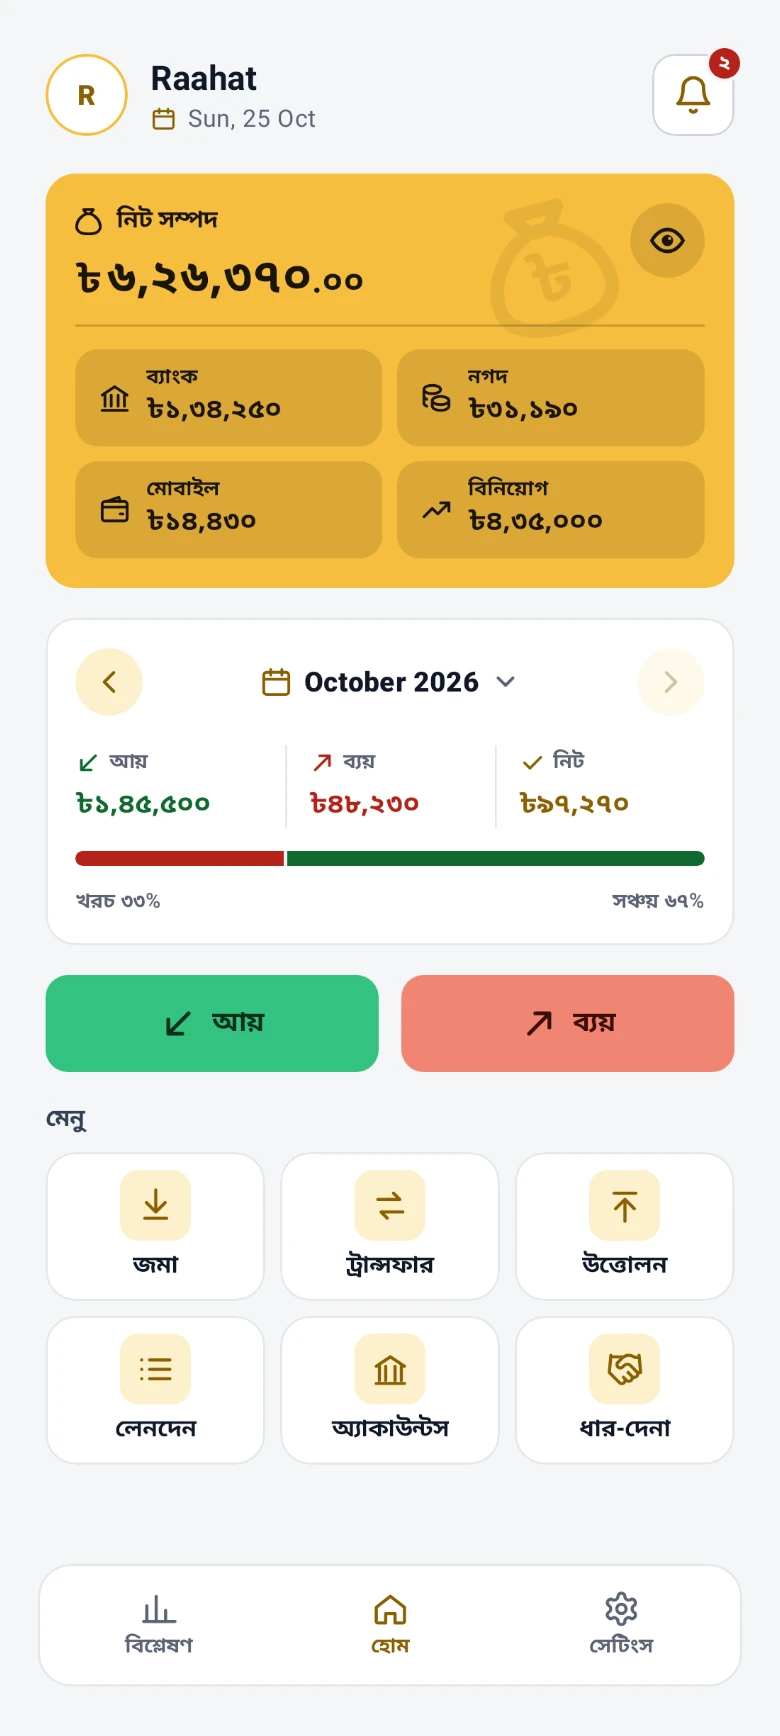
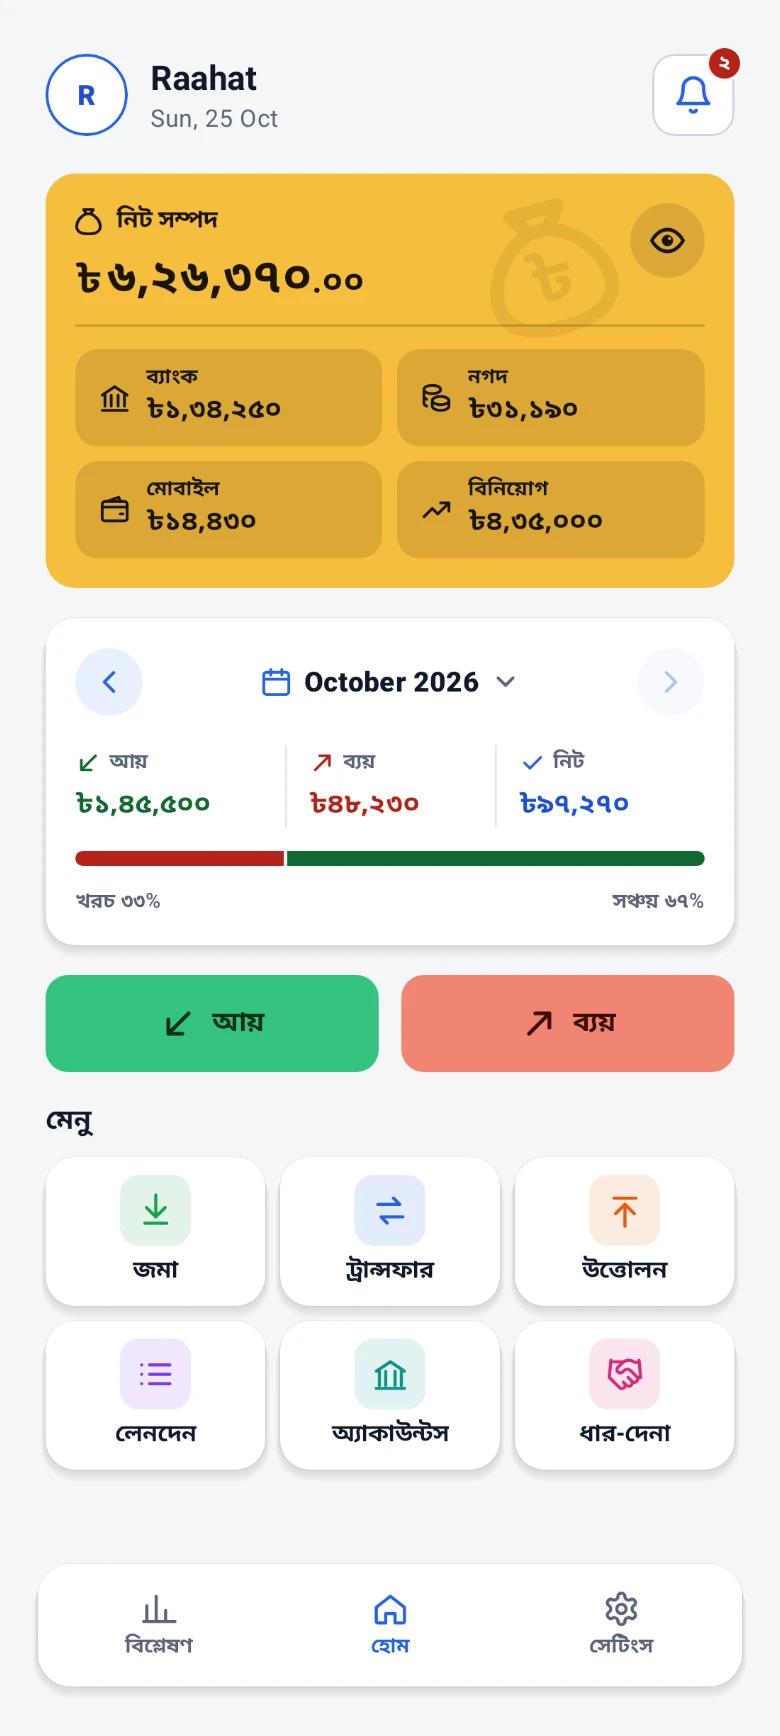
Website 2.25.29: the light pictures in Rainbow
The app's pictures retaken from app 2.2.9: the light ones in its new Rainbow accent, the dark
ones in Yellow, which Rainbow is after dark. The first-launch steps stay Yellow, the accent a
new install starts in. gallery-changes.js adds the LightRainbow look the gallery lacks and
drops its Money Flow 12dp change, which app 2.2.7 released. Features names the third accent:
"gold, sky blue or rainbow" / "সোনালি, আকাশি বা রংধনু".

diff --git a/assets/strings.js b/assets/strings.js
@@ -480,8 +480,8 @@ const S = {
                  'খাতাটি ফোনেই এনক্রিপ্ট করা। ঢুকতে লাগে পিন বা আঙুলের ছাপ, আর বেরোনোর এক মিনিট পর আবার তালা লাগে; এক্সপোর্ট, ব্যাকআপ, এন্ট্রি প্রত্যাহার আর ফাইল থেকে রিস্টোরের আগে আবার পিন বা আঙুলের ছাপ চায়; "সর্বশেষ কপি রিস্টোর" আর "শেষ রিস্টোর ফিরিয়ে নিন"-এ লাগে শুধু পিন।'],
   fLookHead:    ['Set it up your way',
                  'আপনার পছন্দমতো সাজিয়ে নিন'],
-  fLookBody:    ['Bangla or English, light or dark mode, gold or sky blue, and the text size you like — change any of them whenever you want. Set to System, the text follows your phone’s settings, up to the app’s Large size; you can also pick Compact, Standard or Large yourself. Buttons are made easy to tap.',
-                 'বাংলা বা ইংরেজি, লাইট বা ডার্ক মোড, সোনালি বা আকাশি থিম এবং পছন্দমতো ফন্ট সাইজ — সবকিছুই পরিবর্তন করতে পারবেন যখন খুশি। ফন্ট সাইজ System-এ রাখলে লেখা ফোনের সেটিংস অনুযায়ী দেখাবে, তবে অ্যাপের "বড়" সাইজের চেয়ে বড় হবে না। চাইলে কমপ্যাক্ট, স্ট্যান্ডার্ড বা বড় সাইজও বেছে নিতে পারবেন। বোতামগুলোও সহজে ট্যাপ করার মতো করে তৈরি।'],
+  fLookBody:    ['Bangla or English, light or dark mode, gold, sky blue or rainbow, and the text size you like — change any of them whenever you want. Set to System, the text follows your phone’s settings, up to the app’s Large size; you can also pick Compact, Standard or Large yourself. Buttons are made easy to tap.',
+                 'বাংলা বা ইংরেজি, লাইট বা ডার্ক মোড, সোনালি, আকাশি বা রংধনু থিম এবং পছন্দমতো ফন্ট সাইজ — সবকিছুই পরিবর্তন করতে পারবেন যখন খুশি। ফন্ট সাইজ System-এ রাখলে লেখা ফোনের সেটিংস অনুযায়ী দেখাবে, তবে অ্যাপের "বড়" সাইজের চেয়ে বড় হবে না। চাইলে কমপ্যাক্ট, স্ট্যান্ডার্ড বা বড় সাইজও বেছে নিতে পারবেন। বোতামগুলোও সহজে ট্যাপ করার মতো করে তৈরি।'],
   // 1.1.69. Said as the release notes say it: what goes in the list, and that the list
   // is the phone's alone -- the privacy page's promise has to hold for it too.
   f9Head:       ['A list behind the bell', 'বেল আইকনে একটি তালিকা'],

diff --git a/_tools/gallery-changes.js b/_tools/gallery-changes.js
@@ -1,5 +1,5 @@
 // Website render only, never committed to the app: the site's changes to the gallery, applied
-// to a worktree of the release tag (v2.2.6 since site 2.25.21). Usage: node gallery-changes.js <worktree>. Built for site
+// to a worktree of the release tag (v2.2.9 since site 2.25.29). Usage: node gallery-changes.js <worktree>. Built for site
 // 2.21.0-2.23.2; the month counted from the gallery's held clock (25 Oct 2026) since 2.25.1.
 const fs = require('fs');
 const root = process.argv[2] + '/app/src/test/java/com/ledgerbook/app/gallery/';
@@ -29,6 +29,10 @@ edit('GalleryTest.kt', [
   private val bnNotes: Boolean get() = webScene && sceneName.methodName.let { it.contains("Bangla") || it == "bangla" }
   private fun w(en: String, bn: String) = if (bnNotes) bn else en
 `],
+  // Website render only (site 2.25.29): a fifth look, Rainbow on the light theme, which the light
+  // pictures show -- the gallery draws only Yellow and Sky.
+  ['    LightSky(false, ThemeColorMode.SKY, "light-sky")\n',
+   '    LightSky(false, ThemeColorMode.SKY, "light-sky"),\n    LightRainbow(false, ThemeColorMode.RAINBOW, "light-rainbow")\n'],
   ['repository.insertAccount(BankAccount(accountName = "CITY BANK A/C", accountType = "Savings", accountNumberSuffix = "9032", balance = 68250.0,',
    'val city = repository.insertAccountReturningId(BankAccount(accountName = "CITY BANK A/C", accountType = "Savings", accountNumberSuffix = "9032", balance = 0.0,'],
   ['val cash = repository.insertAccountReturningId(BankAccount(accountName = "Cash in Hand",',
@@ -136,16 +140,4 @@ edit('Gallery03HomeTest.kt', [
   @Test fun webFlowBangla() = scene("06-Money-Flow", english = false) { Main(AppPage.MONEY_FLOW) }
 `],
 ]);
-// Website render only (site 2.25.21): Money Flow's filter bar 12 under its note, the owner's ask of
-// 2026-11-19, made in the app's working tree but not yet committed or released -- the 2.2.6 tag
-// draws it at 10. Drop this block once a release carries the 12.
-{
-  const p = process.argv[2] + '/app/src/main/java/com/ledgerbook/app/ui/MoneyFlowScreen.kt';
-  let s = fs.readFileSync(p, 'utf8');
-  const a = 'modifier = Modifier.padding(top = 10.dp)\n                )\n            }\n        }';
-  const crlf = s.includes('\r\n'); s = s.replace(/\r\n/g, '\n');
-  if (s.split(a).length !== 2) throw new Error('MoneyFlowScreen.kt: the filter bar\'s 10.dp');
-  s = s.replace(a, () => a.replace('10.dp', '12.dp'));
-  fs.writeFileSync(p, crlf ? s.replace(/\n/g, '\r\n') : s);
-}
 console.log('ok');

diff --git a/features.html b/features.html
@@ -290,7 +290,7 @@
       <article class="card fcard">
         <span class="tile"><svg class="ico" viewBox="0 0 24 24" aria-hidden="true"><circle cx="12" cy="12" r="9"/><path d="M3 12h18M12 3c2.5 2.5 3.8 5.5 3.8 9s-1.3 6.5-3.8 9c-2.5-2.5-3.8-5.5-3.8-9S9.5 5.5 12 3z"/></svg></span>
         <h3 data-s="fLookHead">Set it up your way</h3>
-        <p data-s="fLookBody">Bangla or English, light or dark mode, gold or sky blue, and the text size you like — change any of them whenever you want. Set to System, the text follows your phone’s settings, up to the app’s Large size; you can also pick Compact, Standard or Large yourself. Buttons are made easy to tap.</p>
+        <p data-s="fLookBody">Bangla or English, light or dark mode, gold, sky blue or rainbow, and the text size you like — change any of them whenever you want. Set to System, the text follows your phone’s settings, up to the app’s Large size; you can also pick Compact, Standard or Large yourself. Buttons are made easy to tap.</p>
       </article>
     </div>
   </section>
@@ -324,7 +324,7 @@
       <p data-s="footerNote">Built for keeping one household’s books. No trackers on this page.</p>
     </div>
     <p class="foot-links">
-      <span class="foot-ver" data-site-version>Website v2.25.28</span>
+      <span class="foot-ver" data-site-version>Website v2.25.29</span>
       <a href="privacy.html" data-s="navPrivacy">Privacy</a>
       <a href="install.html" data-s="navInstall">How to install</a>
     </p>

diff --git a/_tools/towebp.js b/_tools/towebp.js
@@ -16,9 +16,12 @@ const scenes = { home: '03-01-Home', txn: '05-Transactions', accounts: '07-Accou
   analytics: '06-Analytics', backup: '11-Backups-On', invest: '07-Accounts-Tab-Invest', flow: '06-Money-Flow' };
 const steps = { name: '01-02-Welcome-Name-Typed', create: '01-04-Create-PIN', confirm: '01-05-Confirm-PIN' };
 const fades = new Set(['txn', 'accounts', 'flow']);
+// The app's own screens show Rainbow on the light theme and Yellow after dark (site 2.25.29); the
+// first-launch steps stay Yellow, the accent a new install starts in.
+const look = t => t === 'light' ? 'light-rainbow' : 'dark-yellow';
 const jobs = [];
 for (const [k, s] of Object.entries(scenes)) for (const t of ['light', 'dark']) for (const bn of [false, true])
-  jobs.push([`app-${k}-${t}${bn ? '-bn' : ''}.webp`, `${s}${bn ? '-bn' : ''}-${t}-yellow.png`, `${s}-${t}-yellow.png`, fades.has(k)]);
+  jobs.push([`app-${k}-${t}${bn ? '-bn' : ''}.webp`, `${s}${bn ? '-bn' : ''}-${look(t)}.png`, `${s}-${look(t)}.png`, fades.has(k)]);
 for (const [k, s] of Object.entries(steps)) for (const t of ['light', 'dark']) for (const bn of [false, true])
   jobs.push([`step4-${k}-${t}${bn ? '-bn' : ''}.webp`, `${s}${bn ? '-bn' : ''}-${t}-yellow.png`, `${s}-${t}-yellow.png`]);
 const html = path.join(out, 'job.html');

diff --git a/index.html b/index.html
@@ -355,7 +355,7 @@
       <p data-s="footerNote">Built for keeping one household’s books. No trackers on this page.</p>
     </div>
     <p class="foot-links">
-      <span class="foot-ver" data-site-version>Website v2.25.28</span>
+      <span class="foot-ver" data-site-version>Website v2.25.29</span>
       <a href="privacy.html" data-s="navPrivacy">Privacy</a>
       <a href="install.html" data-s="navInstall">How to install</a>
     </p>

diff --git a/install.html b/install.html
@@ -234,7 +234,7 @@
       <p data-s="footerNote">Built for keeping one household’s books. No trackers on this page.</p>
     </div>
     <p class="foot-links">
-      <span class="foot-ver" data-site-version>Website v2.25.28</span>
+      <span class="foot-ver" data-site-version>Website v2.25.29</span>
       <a href="privacy.html" data-s="navPrivacy">Privacy</a>
       <a href="install.html" data-s="navInstall">How to install</a>
     </p>

diff --git a/privacy.html b/privacy.html
@@ -219,7 +219,7 @@
       <p data-s="footerNote">Built for keeping one household’s books. No trackers on this page.</p>
     </div>
     <p class="foot-links">
-      <span class="foot-ver" data-site-version>Website v2.25.28</span>
+      <span class="foot-ver" data-site-version>Website v2.25.29</span>
       <a href="privacy.html" data-s="navPrivacy">Privacy</a>
       <a href="install.html" data-s="navInstall">How to install</a>
     </p>

diff --git a/assets/site.js b/assets/site.js
@@ -30,7 +30,7 @@ document.documentElement.classList.add('js');
  * number for a fix to what is there, the middle one for a new page, section or feature.
  * The app's version is a separate thing and comes from the releases API.
  */
-const SITE_VERSION = '2.25.28';
+const SITE_VERSION = '2.25.29';
 
 const LANGS = { en: 0, bn: 1 };
 // The language actually on the page. Where storage is blocked the saved choice cannot

diff --git a/CHANGELOG.md b/CHANGELOG.md
@@ -12,7 +12,8 @@ Counted back over the history when the number was introduced; repository houseke
 
 | Version | Date | Commit | What |
 |---|---|---|---|
-| 2.25.28 | 2026-11-20 | — | Corners on a scale, the owner's choice from a comparison: cards 20 at every width (a phone made them and the big sections 22), inner panels 16 through a new --radius-panel (the privacy boxes, the step pictures, the done banner and the download note were 14 and 18; the panels at 16 take the token too). Measured on every page at both widths. The sitemap's dates to 2026-11-20, which 2.25.27 missed. And 2.25.27's commit in the changelog |
+| 2.25.29 | 2026-11-24 | — | The app's pictures retaken from app 2.2.9, the light ones in its new Rainbow accent (the owner's choice) and the dark ones in Yellow, which Rainbow is after dark; the first-launch steps stay Yellow, as a new install starts. gallery-changes.js adds the Rainbow look the gallery lacks and drops its Money Flow 12dp change, which 2.2.7 released. Features names the third accent: "gold, sky blue or rainbow" / "সোনালি, আকাশি বা রংধনু". And 2.25.28's commit in the changelog |
+| 2.25.28 | 2026-11-20 | 6d786c8 | Corners on a scale, the owner's choice from a comparison: cards 20 at every width (a phone made them and the big sections 22), inner panels 16 through a new --radius-panel (the privacy boxes, the step pictures, the done banner and the download note were 14 and 18; the panels at 16 take the token too). Measured on every page at both widths. The sitemap's dates to 2026-11-20, which 2.25.27 missed. And 2.25.27's commit in the changelog |
 | 2.25.27 | 2026-11-20 | 30cda1b | The gold written once: --accent on :root, and the other 20 uses (link and hover lines, the warnings, the dark theme's gold, the tile and chip tints, the home headline, the privacy summary) through var(--accent); the dark blocks' copies of --accent removed. No pixel changes, checked page by page on both themes. And 2.25.26's commit in the changelog |
 | 2.25.26 | 2026-11-19 | 374805e | The install guide's step 3 and 4 picture letters in the reader's alphabet: ক খ গ in Bangla, a b c in English (letA–letC). And on a phone the gallery's count stays on one line: with three dots "১ / ৩" broke after the slash; checked at 390 and 360. The features and install layouts stay as the owner drew them. And 2.25.25's commit in the changelog |
 | 2.25.25 | 2026-11-19 | 6f77b29 | Two sizes for every icon tile, the owner's choice from a comparison: 44, and 40 on a phone, the icon 19. The why cards' were 48 (and 48 on a phone), the glance's 46 and 38; five per-section phone rules made one. Measured on every page. And 2.25.24's commit in the changelog |

diff --git a/README.md b/README.md
@@ -55,7 +55,7 @@ read — the ink is a step deeper for exactly that reason. The app hit this same
 
 ## The website's version
 
-Every footer says "Website v2.25.28". `CHANGELOG.md` lists every version and what it was. The number lives once, as SITE_VERSION at the top of
+Every footer says "Website v2.25.29". `CHANGELOG.md` lists every version and what it was. The number lives once, as SITE_VERSION at the top of
 `assets/site.js`, and is raised on every publish: the last part for a fix to what is
 there, the middle part for a new page, section or feature. It is the site's own version and
 has nothing to do with the app's.
@@ -92,8 +92,8 @@ themes (`step4-*-light`, `step4-*-dark`). The features page has twenty-eight (se
 screens — the six in a row and the Invest tab beside the deposits — in two themes and two
 languages), and since 2.21.0 thirty-two: Money Flow beside "Seeing where it went", where the
 Analytics picture stood a second time. Since 2.18.0 they are the app's own gallery: the screens the app's GalleryTest
-draws off the JVM, from the release tag named in `assets/screens/SOURCE`, in the Yellow
-accent, scaled from 1078 to 780 wide (780×1736) — sharp on a high-density phone (since
+draws off the JVM, from the release tag named in `assets/screens/SOURCE`, the light
+ones in the Rainbow accent and the dark ones in Yellow (since 2.25.29), scaled from 1078 to 780 wide (780×1736) — sharp on a high-density phone (since
 2.14.4 they are not enlarged or offered for saving). Since 2.19.0 every picture in
 `assets/screens/` is WebP at quality 0.9: the fifty weigh about 2.9 MB, where the
 PNGs weighed 7.7 MB. To retake them, run the gallery in a worktree of the release tag (its

diff --git a/_tools/README.md b/_tools/README.md
@@ -17,13 +17,13 @@ in `assets/screens/SOURCE`.
 
 ## Steps
 
-The tag is the app release the pictures should show (`v2.2.6` below); `$S` is any scratch
+The tag is the app release the pictures should show (`v2.2.9` below); `$S` is any scratch
 folder. One Gradle run at a time on this machine; never `connectedAndroidTest`.
 
 ```sh
 # 1. A worktree of the release, with the site's changes
 cd /e/Projects/LedgerBook
-git -c core.longpaths=true worktree add --detach "$S/g" v2.2.6
+git -c core.longpaths=true worktree add --detach "$S/g" v2.2.9
 cp local.properties "$S/g/"
 node site/_tools/gallery-changes.js "$S/g"
 
